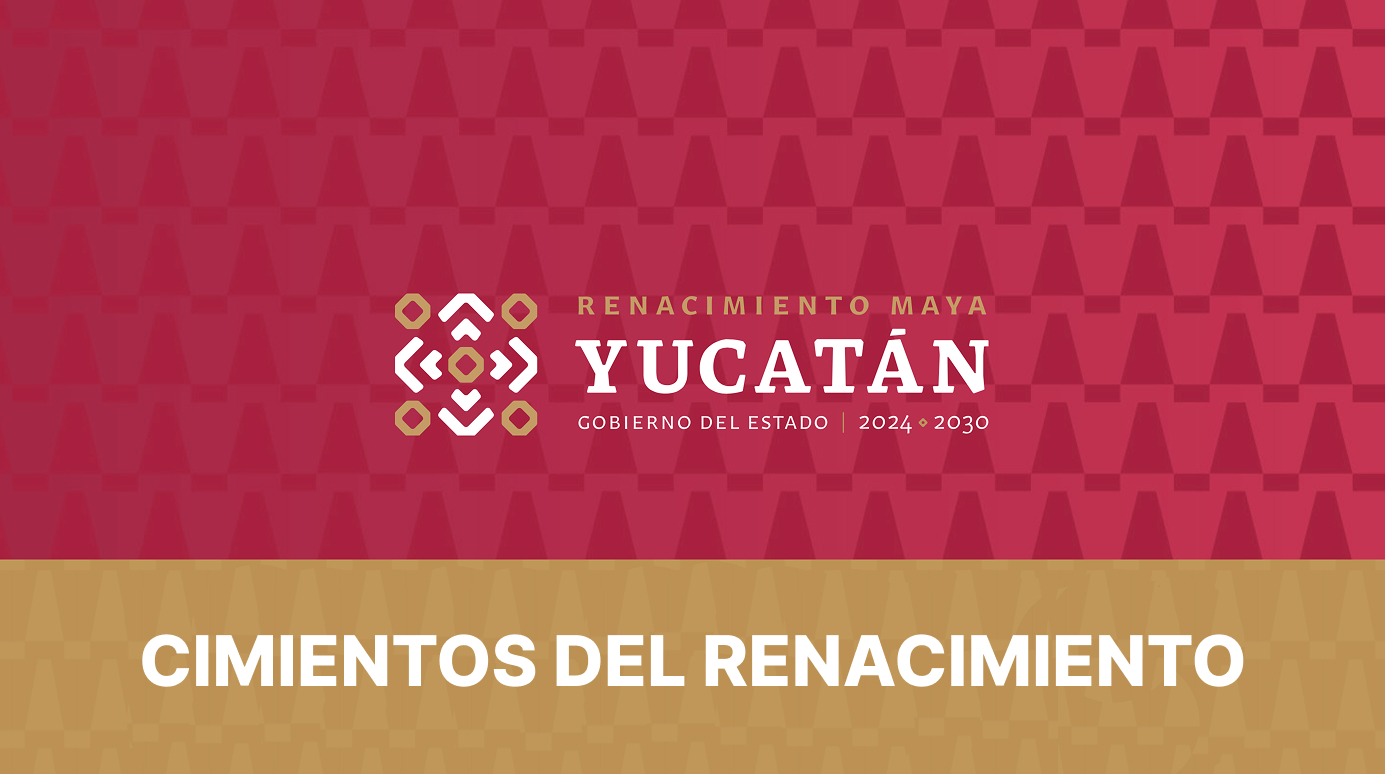
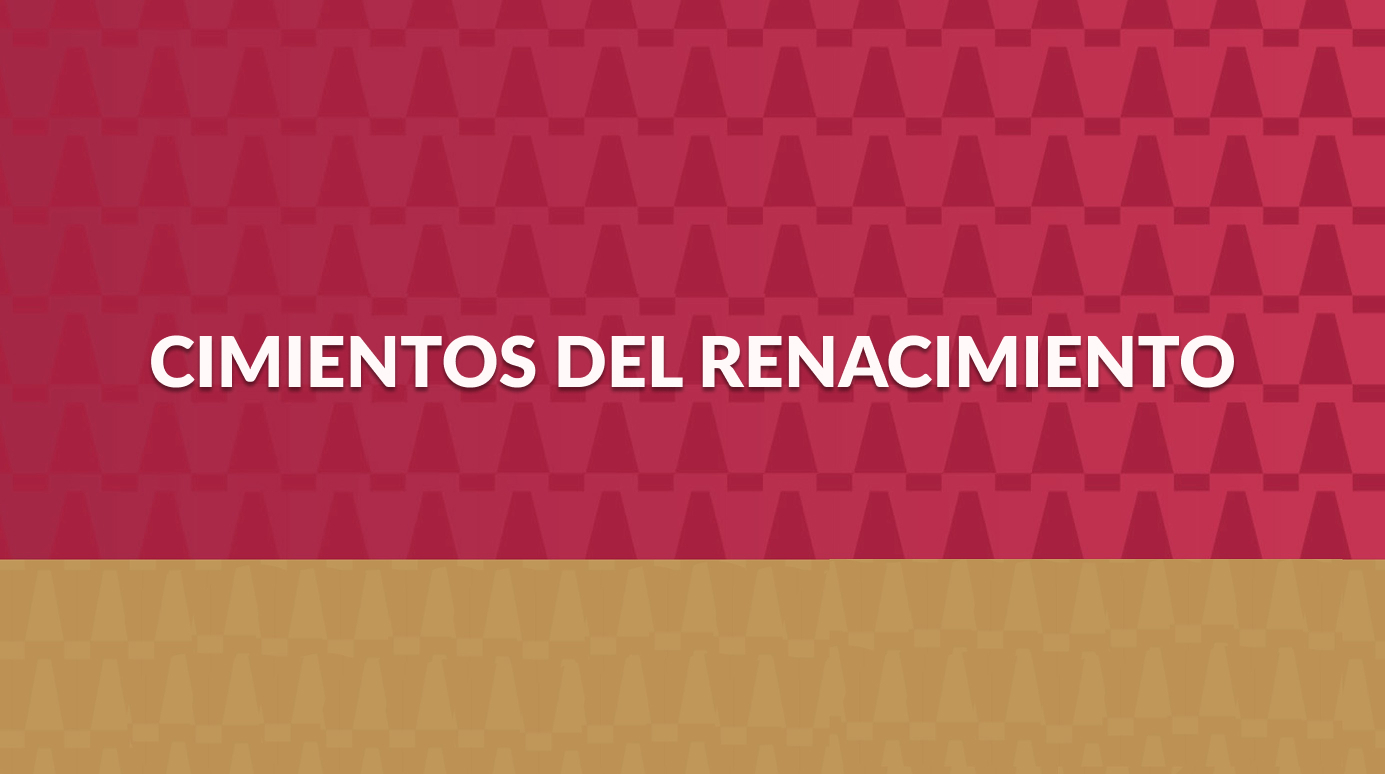
Resaltar el nombre del programa en el Carousel

Changed region(s): [[0.0931, 0.3721, 0.9004, 0.5581], [0.0931, 0.8062, 0.9004, 0.8992]]

diff --git a/src/presentation/features/Inicio/Inicio.tsx b/src/presentation/features/Inicio/Inicio.tsx
@@ -8,30 +8,28 @@ import './Inicio.css'
 const Inicio: React.FC = () => {
     return (
 
-        <section id="Inicio">
-            <div className="carousel-container position-relative">
+       <section id="Inicio">
+  <div className="carousel-container position-relative">
+    <Carousel>
+      <Carousel.Item>
+        <CarouselImage src={banner} alt="First slide" />
+      </Carousel.Item>
+      <Carousel.Item>
+        <CarouselImage src={banner} alt="Second slide" />
+      </Carousel.Item>
+      <Carousel.Item>
+        <CarouselImage src={banner} alt="Third slide" />
+      </Carousel.Item>
+    </Carousel>
 
-                <Carousel>
+    {/* Flecha hacia abajo animada */}
+    <a href="#Fideicomiso" className="scroll-down">
+  <FaArrowDown size={30} />
+</a>
 
-                    <Carousel.Item>
-                        <CarouselImage src={banner} alt="First slide" />
-                    </Carousel.Item>
-                    <Carousel.Item>
-                        <CarouselImage src={banner} alt="First slide" />
-                    </Carousel.Item>
-                    <Carousel.Item>
-                        <CarouselImage src={banner} alt="First slide" />
-                    </Carousel.Item>
-                </Carousel>
+  </div>
+</section>
 
-                {/* Flecha hacia abajo */}
-                <div className="scroll-down bottom-0 start-50 mb-3">
-                    <FaArrowDown size={30} color="#fff" />
-                    {/* <span className="fs-1 text-white">&#8595;</span> */}
-                </div>
-
-            </div>
-        </section>
 
 
     );

diff --git a/src/presentation/features/Inicio/Inicio.css b/src/presentation/features/Inicio/Inicio.css
@@ -1,27 +1,19 @@
 .scroll-down {
-    position: absolute;
-    bottom: 20px;
-    font-size: 2rem;
-    color: black;
-    animation: bounce 2s infinite;
+  position: absolute;
+  left: 50%; /* centro horizontal */
+  transform: translateX(-50%);
+  bottom: 60px; /* separada del fondo */
+  color: white;
+  cursor: pointer;
+  z-index: 10;
+  animation: bounce 2s infinite;
 }
 
-.arrow-down {
-    animation: bounce 2s infinite;
-    cursor: pointer;
-    z-index: 10;
-    color: black;
-}
-
-/* Animación suave tipo “rebote” */
 @keyframes bounce {
-
-    0%,
-    100% {
-        transform: translateY(0);
-    }
-
-    50% {
-        transform: translateY(10px);
-    }
+  0%, 100% {
+    transform: translateX(-50%) translateY(0);  /* 👈 combinación de movimientos */
+  }
+  50% {
+    transform: translateX(-50%) translateY(10px); /* 👈 se mantiene centrada */
+  }
 }
